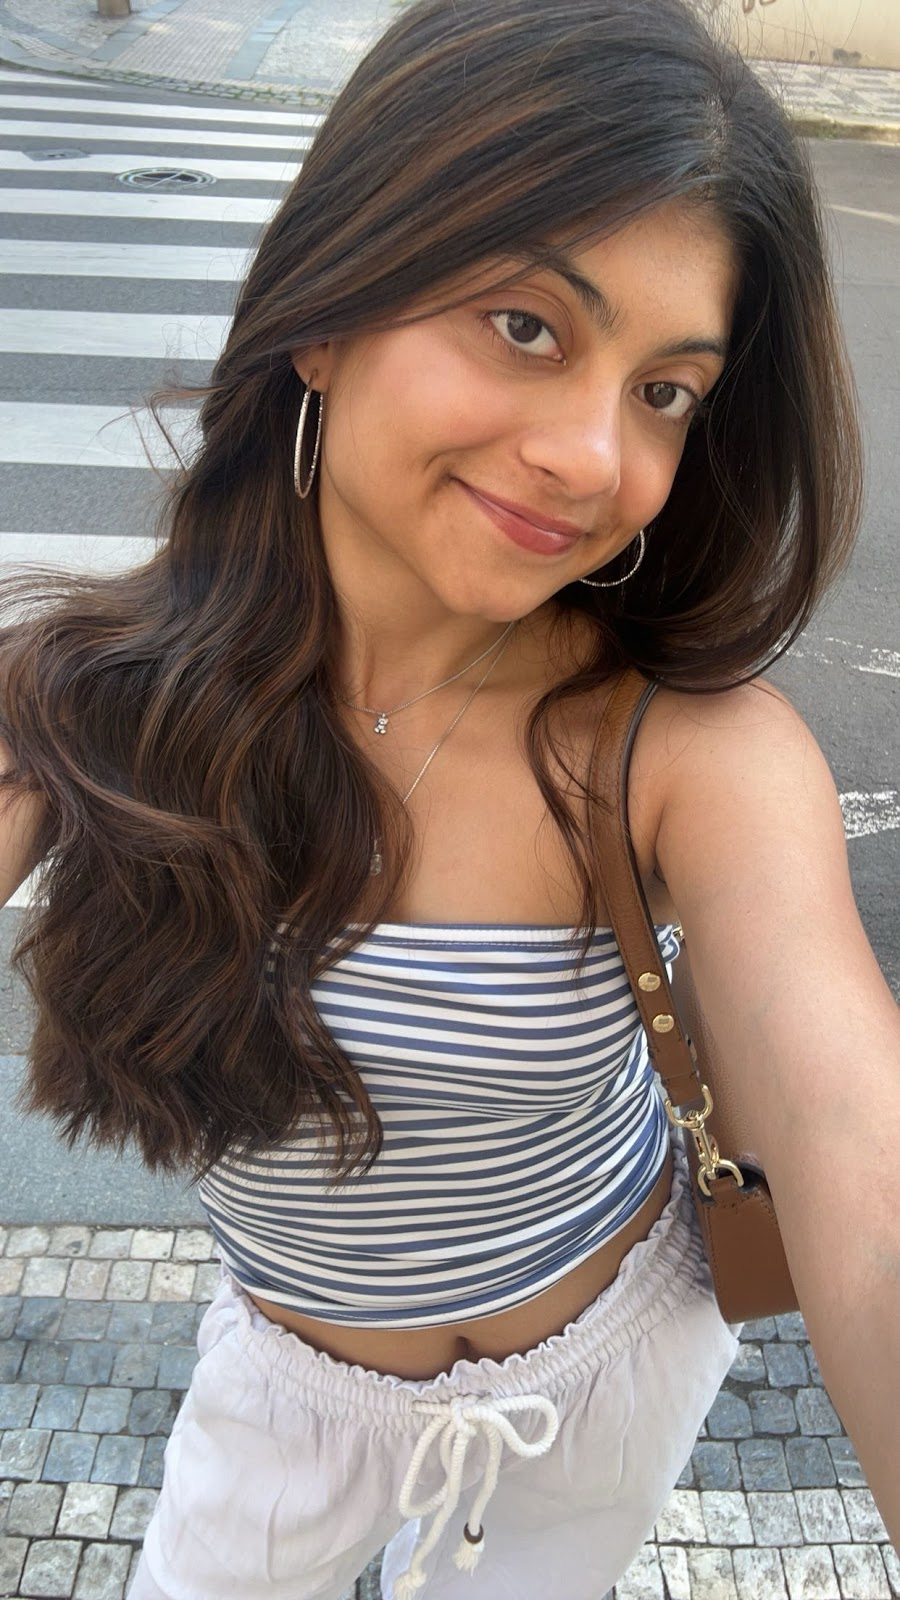
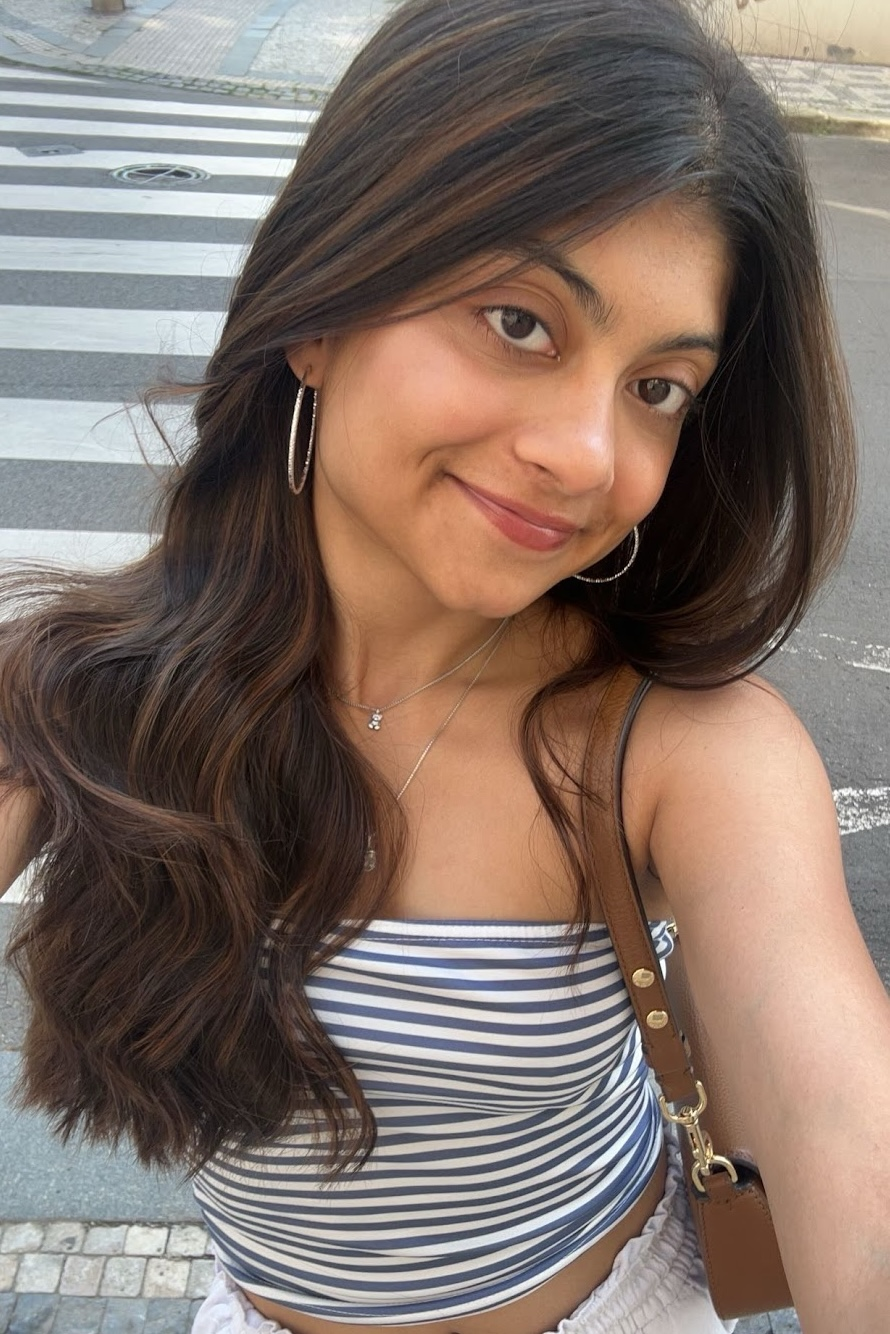
fix image display

diff --git a/src/pages/AboutUs/AboutUs.tsx b/src/pages/AboutUs/AboutUs.tsx
@@ -5,7 +5,11 @@ const AboutUs = () => {
   //[name, role/committee, major, image]
   return (
     <>
-      <img className="header-image" src="events-page-image.png" alt=""></img>
+      <img
+        className="header-image object-fit-cover"
+        src="events-page-image.png"
+        alt=""
+      ></img>
       <div className="divider d-flex justify-content-center align-items-center text-light">
         <p className="text-center">
           The Triton Engineering Student Council (TESC), empowers UC San Diego's
@@ -22,7 +26,7 @@ const AboutUs = () => {
               className="col-6 col-sm-6 col-lg-3 d-flex flex-column justify-content-center align-items-center mb-3"
             >
               <img
-                className="member-image img-fluid"
+                className="member-image object-fit-cover rounded"
                 src={member[3]}
                 alt=""
                 style={{ cursor: "pointer" }}

diff --git a/src/pages/AboutUs/about-us.css b/src/pages/AboutUs/about-us.css
@@ -1,7 +1,6 @@
 .header-image{
     width: 100%;
     height: 50vh;
-    object-fit: cover;
 }
 
 .divider{
@@ -13,7 +12,7 @@
 
 .member-image{
     height: 300px;
-    width: auto;
+    width: 250px;
 }
 
 .text-bold{
